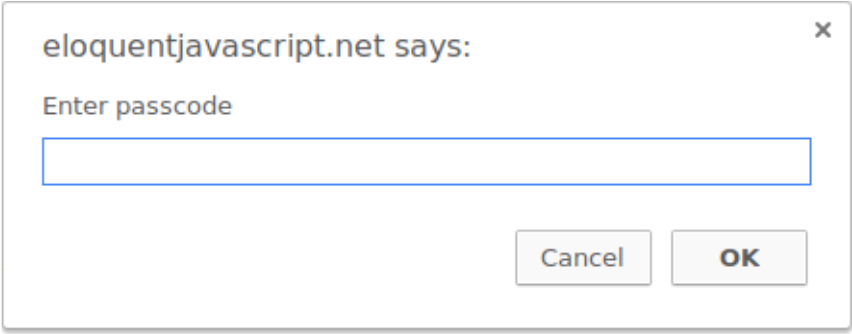
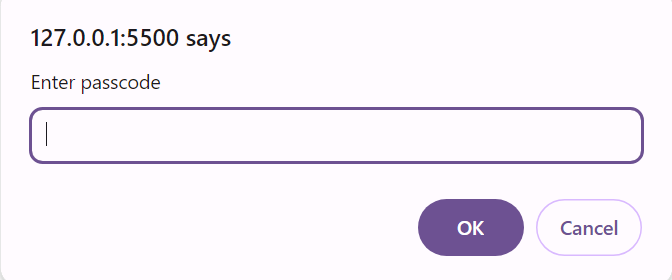
functions

diff --git a/03_program_structure/02_functions/script.js b/03_program_structure/02_functions/script.js
@@ -1,7 +1,3 @@
-let caught = 5 * 5;
-let ten = 10;
-console.log(ten * ten); // Output: 100
-let mood = "light";
-console.log(mood); // Output: light
-mood = "dark";
-console.log(mood); // Output: dark
+prompt("Enter passcode")
+console.log(Math.max(2, 4));
+console.log(Math.min(2, 4) + 100);

diff --git a/03_program_structure/02_functions/readme.md b/03_program_structure/02_functions/readme.md
@@ -10,6 +10,8 @@ For example, in a browser environment, the binding `prompt` holds a function tha
 prompt("Enter passcode");
 ```
 
+<img src="./images/prompt.PNG" alt="Prompt Functions" width="50%" >
+</br>
 Executing a function is called invoking, calling, or applying it. You can call a function by putting parentheses after an expression that produces a function value. Usually, you’ll directly use the name of the binding that holds the function. The values between the parentheses are given to the program inside the function. 
 
 In the example, the `prompt` function uses the string that we give it as the text to show in the dialog box. Values given to functions are called arguments. Different functions might need a different number or different types of arguments.
